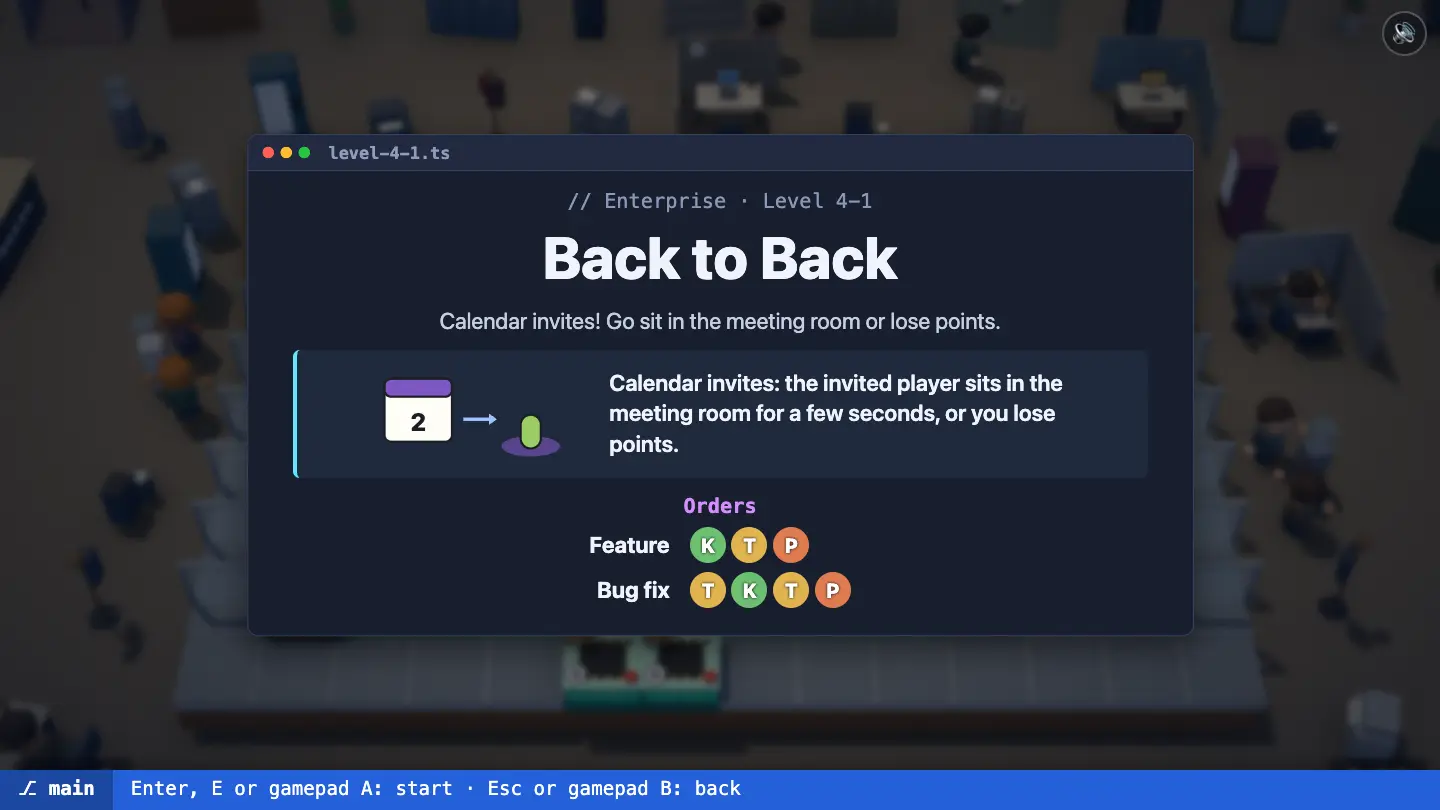
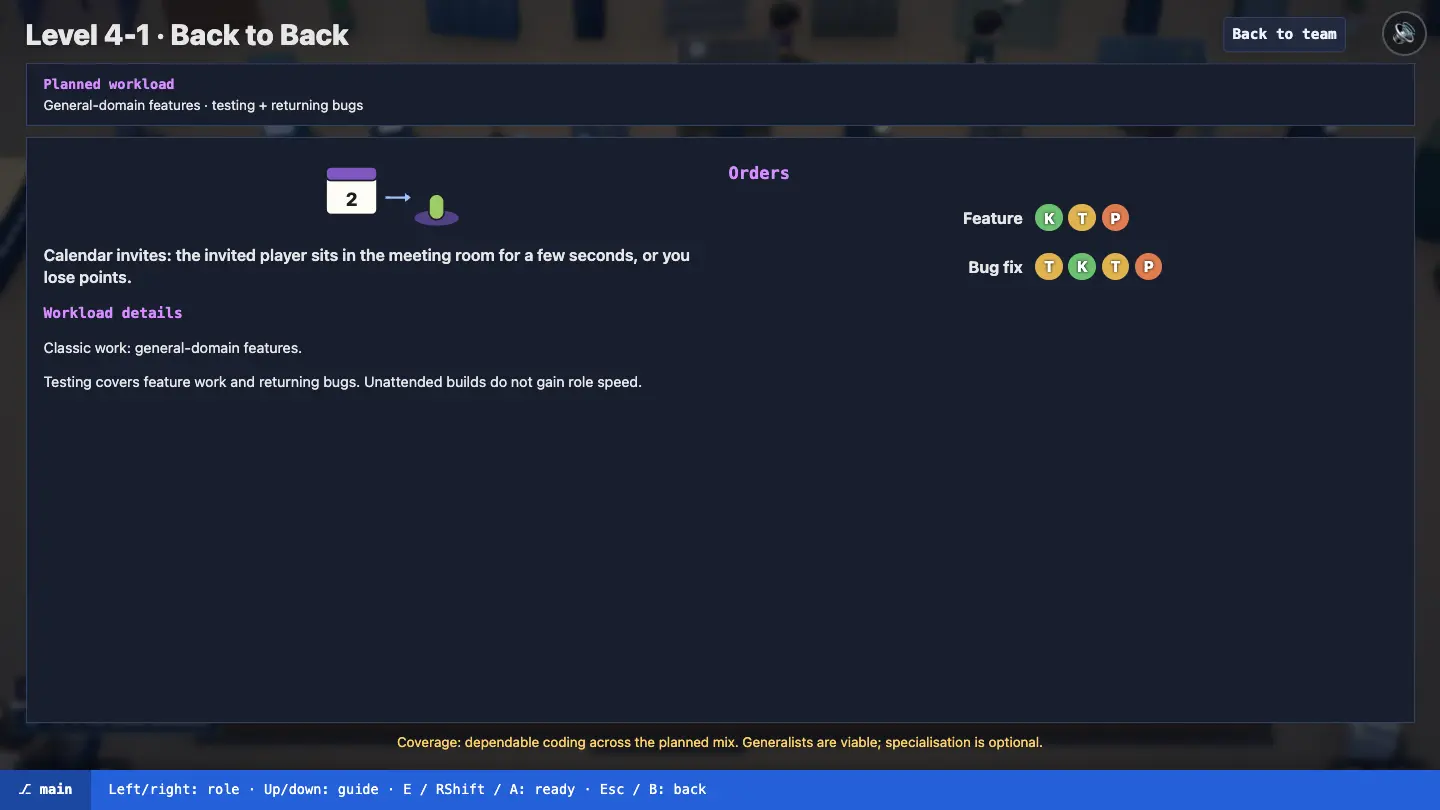
Verify compact four-player menus and refresh scoped evidence
Check 24 local/online layouts against viewport, card and overlay bounds; exercise keyboard/controller guide access and update affected documentation captures.

diff --git a/scripts/verifyRoleLayout.ts b/scripts/verifyRoleLayout.ts
@@ -1,0 +1,161 @@
+/// <reference types="node" />
+/** Four-seat layout checks: real menu input, visible content bounds, no clipped/scrolling controls. */
+import { mkdirSync, writeFileSync } from 'node:fs';
+import { resolve, join } from 'node:path';
+import { launchChrome, sleep, type Browser, type Page } from './cdp';
+
+const arg = (name: string): string | undefined =>
+  process.argv.find((value) => value.startsWith(`--${name}=`))?.slice(name.length + 3);
+const base = arg('base') ?? 'http://127.0.0.1:5217';
+const out = resolve(arg('out') ?? '/tmp/isv-role-layout');
+mkdirSync(out, { recursive: true });
+const browsers: Browser[] = [];
+const reports: { name: string; issues: string[] }[] = [];
+async function browser(name: string): Promise<Page> {
+  const made = await launchChrome(9381 + browsers.length, name, { width: 1440, height: 900 });
+  browsers.push(made);
+  return made.page;
+}
+
+async function capture(page: Page, selector: string, name: string): Promise<void> {
+  await sleep(350);
+  const issues = await page.eval<string[]>(`(() => {
+    const root = document.querySelector(${JSON.stringify(selector)});
+    const status = root.querySelector('.screen-hint').getBoundingClientRect();
+    const problems = [];
+    for (const el of root.querySelectorAll('*')) {
+      if (!el.checkVisibility() || el.closest('.screen-hint')) continue;
+      const box = el.getBoundingClientRect();
+      if (!box.width || !box.height) continue;
+      const style = getComputedStyle(el);
+      if (['auto', 'scroll'].includes(style.overflowY) && el.scrollHeight > el.clientHeight + 1)
+        problems.push(el.className + ': vertical scrolling');
+      if (['auto', 'scroll'].includes(style.overflowX) && el.scrollWidth > el.clientWidth + 1)
+        problems.push(el.className + ': horizontal scrolling');
+      if (el.children.length && !['BUTTON', 'CANVAS'].includes(el.tagName)) continue;
+      if (box.left < -1 || box.right > innerWidth + 1 || box.top < -1 || box.bottom > status.top + 1)
+        problems.push(el.className + ': outside available screen ' + JSON.stringify({x: box.x, y: box.y, width: box.width, height: box.height, bottomLimit: status.top}));
+      const owner = el.closest('.lobby-slot, .intro-seat, .online-player, .intro-guide');
+      if (owner) {
+        const bounds = owner.getBoundingClientRect();
+        if (box.left < bounds.left - 1 || box.right > bounds.right + 1 || box.top < bounds.top - 1 || box.bottom > bounds.bottom + 1)
+          problems.push(el.className + ': outside its card');
+      }
+      for (const overlay of document.querySelectorAll('.sound-toggle, .online-bar:not(.in-round), .net-hud')) {
+        if (!overlay.checkVisibility()) continue;
+        const bounds = overlay.getBoundingClientRect();
+        if (box.left < bounds.right - 1 && box.right > bounds.left + 1 && box.top < bounds.bottom - 1 && box.bottom > bounds.top + 1)
+          problems.push(el.className + ': overlaps ' + overlay.className);
+      }
+    }
+    return problems;
+  })()`);
+  reports.push({ name, issues });
+  console.log(
+    `${issues.length ? 'FAIL' : 'PASS'} ${name}${issues.length ? ` ${issues.join('; ')}` : ''}`,
+  );
+  await page.shot(join(out, `${name}.png`));
+}
+
+async function sizes(page: Page, selector: string, name: string): Promise<void> {
+  for (const [width, height] of [
+    [1440, 900],
+    [1280, 720],
+    [740, 900],
+    [640, 720],
+  ]) {
+    await page.send('Emulation.setDeviceMetricsOverride', {
+      width,
+      height,
+      deviceScaleFactor: 1,
+      mobile: false,
+    });
+    await capture(page, selector, `${name}-${width}x${height}`);
+  }
+  await page.send('Emulation.clearDeviceMetricsOverride');
+}
+
+async function pad(page: Page, index: number, button: number): Promise<void> {
+  await page.eval(
+    `window.layoutPads[${index}].buttons[${button}] = { pressed: true, touched: true, value: 1 }`,
+  );
+  await sleep(150);
+  await page.eval(
+    `window.layoutPads[${index}].buttons[${button}] = { pressed: false, touched: false, value: 0 }`,
+  );
+  await sleep(300);
+}
+
+try {
+  const local = await browser('role-layout-local');
+  await local.open(`${base}/?lab=lab-roles&quality=low`);
+  await local.key('Enter');
+  await local.key('Enter');
+  await local.eval(`window.layoutPads = [0,1].map(index => ({
+    id: 'Layout verification gamepad', index, connected: true, mapping: 'standard',
+    axes: [0,0,0,0], buttons: Array.from({length: 17}, () => ({pressed:false,touched:false,value:0}))
+  })); navigator.getGamepads = () => window.layoutPads`);
+  await pad(local, 0, 0);
+  await pad(local, 1, 0);
+  await local.waitFor(
+    `document.querySelectorAll('.lobby-slot.joined').length === 4`,
+    'four joined seats',
+  );
+  await local.key('KeyD');
+  await local.key('ArrowLeft');
+  await sizes(local, '.lobby', 'local-four');
+  await local.key('KeyE');
+  await local.waitFor(`!document.querySelector('.intro-screen').hidden`, 'lab confirmation');
+  await sizes(local, '.intro-screen', 'intro-four');
+  await local.key('KeyW');
+  await local.waitFor(`!document.querySelector('.intro-guide').hidden`, 'keyboard opens guide');
+  await sizes(local, '.intro-screen', 'guide');
+  await pad(local, 0, 12);
+  await local.waitFor(`document.querySelector('.intro-guide').hidden`, 'controller closes guide');
+  await local.key('KeyE');
+  await local.key('ShiftRight', 'Shift');
+  await pad(local, 0, 0);
+  await pad(local, 1, 0);
+  await local.waitFor(`document.querySelector('.intro-screen').hidden`, 'all four ready');
+
+  const host = await browser('role-layout-host');
+  const guest = await browser('role-layout-guest');
+  await host.open(`${base}/?quality=low`);
+  await host.key('Enter');
+  await host.key('ArrowDown');
+  await host.key('Enter');
+  const code = await host.waitFor<string>(
+    `document.querySelector('.online-code').textContent.length === 4 && document.querySelector('.online-code').textContent`,
+    'room code',
+  );
+  await guest.open(`${base}/?quality=low`);
+  await guest.key('Enter');
+  await guest.key('ArrowDown');
+  await guest.key('ArrowDown');
+  await guest.key('Enter');
+  for (const ch of code) await guest.key(`Key${ch}`, ch.toLowerCase(), ch.toLowerCase());
+  await guest.key('Enter');
+  await guest.waitFor(`document.querySelectorAll('.online-member').length === 2`, 'two machines');
+  for (const page of [host, guest]) {
+    await page.key('Enter');
+    await page.key('Enter');
+    await page.key('KeyD');
+    await page.key('ArrowLeft');
+  }
+  await guest.waitFor(
+    `document.querySelectorAll('.online-player').length === 4`,
+    'four online couch slots',
+  );
+  await sizes(guest, '.online-lobby', 'online-four');
+  await host.key('KeyE');
+  await host.key('KeyE');
+  await guest.waitFor(`!document.querySelector('.intro-screen').hidden`, 'online confirmation');
+  await sizes(guest, '.intro-screen', 'online-intro-four');
+  await guest.key('ArrowUp');
+  await guest.waitFor(`!document.querySelector('.intro-guide').hidden`, 'online guest opens guide');
+  await sizes(guest, '.intro-screen', 'online-guide');
+  writeFileSync(join(out, 'layout-results.json'), JSON.stringify(reports, null, 2));
+  if (reports.some((report) => report.issues.length)) process.exitCode = 1;
+} finally {
+  for (const made of browsers) made.close();
+}

diff --git a/scripts/verifyRoles.ts b/scripts/verifyRoles.ts
@@ -88,8 +88,9 @@ try {
     mobile: false,
   });
   await shot(local, 'local-intro-narrow');
-  await local.eval('document.querySelector(".intro-body").scrollTop = 500');
-  await shot(local, 'local-intro-narrow-team');
+  await local.eval('document.querySelector(".intro-guide-button").click()');
+  await shot(local, 'local-guide-narrow');
+  await local.eval('document.querySelector(".intro-guide-button").click()');
   await local.send('Emulation.clearDeviceMetricsOverride');
   await local.key('KeyE');
   await local.key('ShiftRight', 'Shift');

diff --git a/scripts/screenshots.ts b/scripts/screenshots.ts
@@ -411,6 +411,9 @@ const SHOTS: Record<string, Shot> = {
     for (const [id, chapter, row] of intros) {
       await toLevelSelect(page);
       await openIntro(page, chapter, row);
+      await page.key('ArrowUp');
+      if (!(await page.eval<boolean>(`!document.querySelector('.intro-guide').hidden`)))
+        throw new Error('Level guide did not open');
       await page.shot(`screens/intro-${id}`);
     }
   },

diff --git a/docs/plan/phase-21-character-roles.md b/docs/plan/phase-21-character-roles.md
@@ -287,9 +287,11 @@ Capture with `npx vite-node scripts/characterCast.ts --base=http://127.0.0.1:519
 
 ### 21c second part: role selection and feedback
 
-The local lobby and online couch slots default to generalist. Each bound device cycles its own role with left/right; mouse buttons send the same commands. All five roles have a live preview of the accepted production rig, a strength/tradeoff summary, peak coding/testing comparison, and expandable full work-speed details. Cosmetics stay independent of role and owner-based; there is no gender or appearance control.
+The local lobby and online couch slots default to generalist. Each bound device cycles its own role with left/right; mouse buttons send the same commands. Following the user's no-scroll correction, all five roles have a compact live preview of the accepted production rig, a strength/tradeoff summary and always-visible skill bars for every coding domain, testing, design and repair. Bars share a scale, mark the 1.00x baseline and give exact multipliers; there is no ambiguous "peak" summary or expandable stats. Four players use four columns on desktop and a two-by-two layout on narrow screens. Cosmetics stay independent of role and owner-based; there is no gender or appearance control.
 
 The level intro is now team confirmation. It puts the authored workload ahead of the tutorial, including ordinary feature-domain batch counts when enabled, both full-stack coding parts, incidents, design/review, returning bugs and unattended builds. Coverage is advisory, never a class gate. Each participating connected player readies separately; changing that player's role clears only their readiness. Countdown locks the authoritative role map and recreates the prepared round with its original seed. Retry/restart/next-level confirmation keeps roles and resets readiness.
+
+The compact forecast stays visible while **Level guide** swaps the team area for tutorial/recipes and full workload details in place; **Back to team**, or up/down on keyboard/controller, returns to the role cards. No selection surface requires scrolling. The four-seat layout verifier checks visible content against both viewport and individual card bounds, including online room/sound/status controls, at 1440x900, 1280x720, 740x900 and 640x720 (24 local/online lobby, confirmation and guide cases). Real captures were inspected; injected gamepad readings exercise the menu path but are not a physical-controller test.
 
 Shared plain-data roster helpers serve local flow and server setup. Protocol 6 validates role/ready/takeover requests; only an owner can configure their own slots, only before countdown. Reconnect and orphaned-gamepad takeover preserve player identity and role. A disconnected owner's readiness is cleared and does not block the connected team; rejoining before countdown requires fresh ready. Late spectators cannot change the active roster.
 
@@ -299,12 +301,14 @@ In-round player badges show role labels/icons; orders and tickets show domain la
 - [x] Solo and 2/3/4-slot readiness, countdown locks, connected-owner handling, reconnect, orphan-controller takeover, retry/restart and snapshot/prediction role preservation covered by colocated tests.
 - [x] Real isolated Chrome local gameplay and a real authoritative room with two clients verify selection through countdown into actual roles, movement, page reconnect and late-spectator safety.
 - [x] Desktop and narrow captures inspected for lobby, confirmation/forecast, and real sim-driven domain/rate feedback; online lobby, confirmation, gameplay and spectator captures inspected.
-- [x] `npm run check` (86 files, 1,204 tests) and `npm run build` pass.
+- [x] `npm run check` (86 files, 1,205 tests) and `npm run build` pass.
 - [x] Independent selection/feedback critic completed three bounded rounds; final review found no significant issues. Round 1 exposed join-only Enter readying keyboard slots, fixed with interact-only readiness plus pure/browser regressions. Round 2 exposed old one-host-press assumptions in online/prediction/screenshot scripts, fixed and verified end to end.
 - [ ] Physical gamepads, multi-human couch play, two-second recognition and human balance trials completed.
 
 Development entry: `/?lab=lab-roles&quality=low` opens a playable local lab without save progression or campaign migration (dev builds only). `/?scene=roles-work&quality=low` freezes actual sim work: a designed matching pair contributes 2.28x each / 4.56x total, QA tests at 1.60x and platform repairs at 1.25x.
 
 With Vite pointing to a running local server, reproduce scoped browser evidence with `npx vite-node scripts/verifyRoles.ts --base=http://127.0.0.1:5217 --out=/absolute/evidence/directory --cdp-port=9371`. It uses private Chrome profiles and closes its browsers. It does not retake the full docs catalog. No role stats, scoring, bot policy, domain schedules or campaign opt-ins changed; the noisy 21b results and the three-player role-aware policy regression remain open for separately approved 21d investigation.
+
+Reproduce the compact four-player layout evidence with `npx vite-node scripts/verifyRoleLayout.ts --base=http://127.0.0.1:5217 --out=/absolute/evidence/directory`. The user-directed compact revision was checked directly after the three-round critic gauntlet; the earlier critic review does not cover the revised layout.
 
 The existing online and prediction verifiers now confirm each owned slot before starting/restarting; the round-start screenshot flow readies both keyboards and requires a real countdown before capture. `npm run verify:online` passes 13/13 checks (drop/reload, host succession, next-round join and grace expiry), and `npm run verify:prediction` passes 16/16 (lagged input, reconciliation, carry/pause and restarted countdown). The online reload check explicitly waits for a new document rather than accidentally accepting the old pre-unload debug handle. The scoped `screens/round-start` capture passes and its intro/countdown/hints/pause images were inspected and updated. Physical gamepads and multiple humans remain untested.

diff --git a/docs/game/README.md b/docs/game/README.md
@@ -62,9 +62,9 @@ Settings → Online profile shows this browser's user ID and display name. Copy 
 
 Press Enter or gamepad A to join. The first Enter joins the left keyboard, the second the right keyboard; every gamepad joins with A. Each player gets a color, number and owner shape (circle, triangle, square, diamond), independent of their role and hairstyle. Joining does not also confirm or start. Player 1 continues to level selection with their pick-up button.
 
-Everyone starts as a **generalist**. Left/right on your own controls chooses a role; the card shows the live character, its strength/tradeoff, peak coding speed and testing speed. **All work speeds** expands the domain-by-domain comparison. Generalist is dependable everywhere; frontend/backend specialists prefer their coding domain, QA prefers testing, and platform prefers infrastructure coding with a smaller repair bonus. Every role can do every task, duplicate roles are allowed, and roles do not change movement, scoring or unattended build speed. The numbers are work-speed multipliers: 1.50x is 50% faster work, not 50% less time.
+Everyone starts as a **generalist**. Left/right on your own controls chooses a role; each compact card shows the live character, its strength/tradeoff and skill bars for all five coding domains, testing, design and repair. All bars share one scale and mark the 1.00x baseline, with exact multipliers alongside. Four players fit on one screen without scrolling; narrow screens use a two-by-two layout. Generalist is dependable everywhere; frontend/backend specialists prefer their coding domain, QA prefers testing, and platform prefers infrastructure coding with a smaller repair bonus. Every role can do every task, duplicate roles are allowed, and roles do not change movement, scoring or unattended build speed. The numbers are work-speed multipliers: 1.50x is 50% faster work, not 50% less time.
 
-![Lobby with two keyboard players](images/screens/lobby.webp)
+![Compact four-player lobby with comparable skill bars](images/screens/lobby.webp)
 
 ### Playing online
 
@@ -106,7 +106,7 @@ On a fresh save (left) only The Garage is open and everything past it is under c
 
 ### Level intro card
 
-Before every round, including retries, the level's card shows its name, **Planned workload**, recipes and tutorial. The forecast comes from the level, not your chosen roles: classic levels announce general-domain features; domain-enabled work also describes its authored feature mix and any full-stack parts or incidents. Coverage notes are advice, never permission checks.
+Before every round, including retries, team confirmation shows the level's name, a compact **Planned workload** band and everyone's role cards. **Level guide** swaps the team area for recipes, tutorial and detailed workload without scrolling or hiding the forecast; **Back to team** returns to readiness. Up/down on a keyboard or controller toggles the guide too. The forecast comes from the level, not your chosen roles: classic levels announce general-domain features; domain-enabled work also describes its authored feature mix and any full-stack parts or incidents. Coverage notes are advice, never permission checks.
 
 Each player can revise their own role here, then press their pick-up button (E, Right Shift or gamepad A) to ready. Enter is join-only and cannot ready both keyboard players together. Changing a role clears that player's ready. **Every connected participating player must be ready** before countdown; roles then freeze until the next round's confirmation. Roles stay selected across retries and next levels but readiness resets.
 
